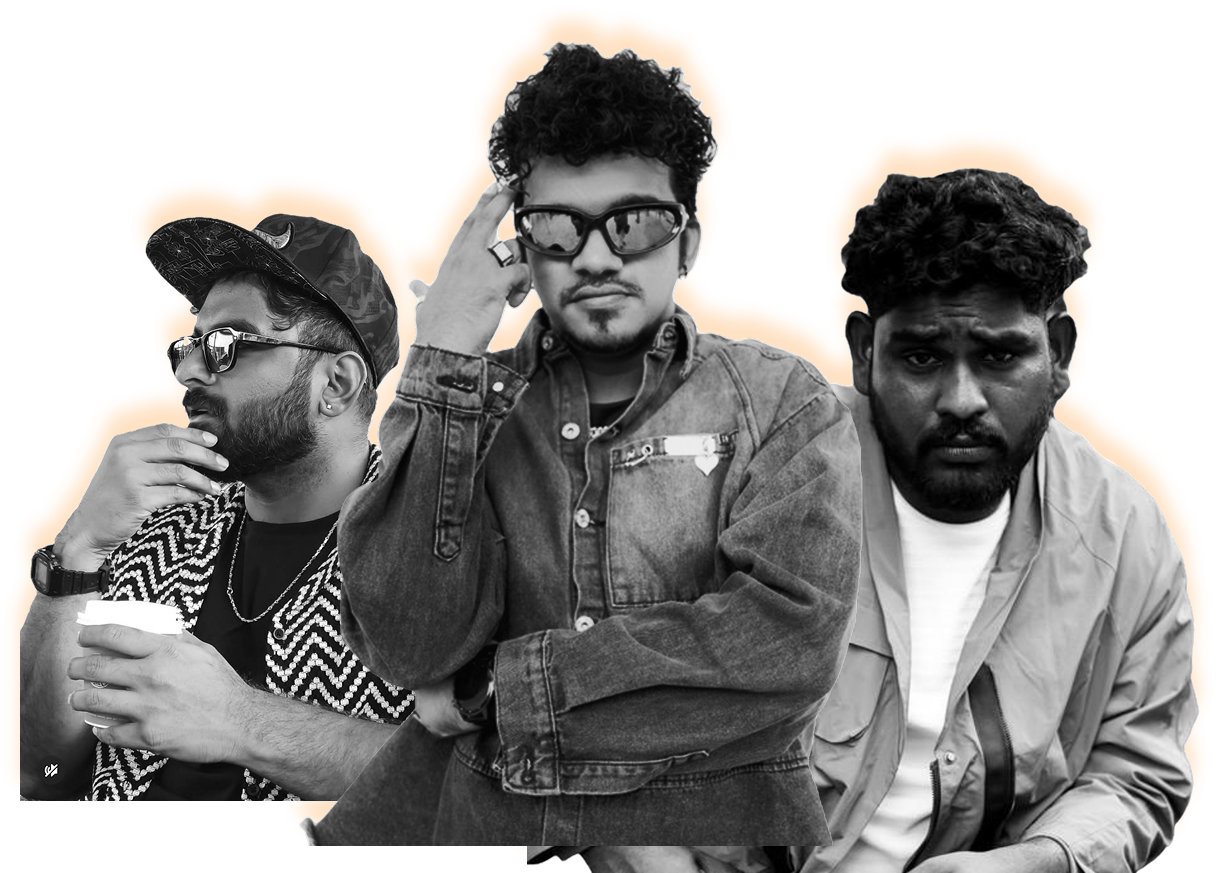
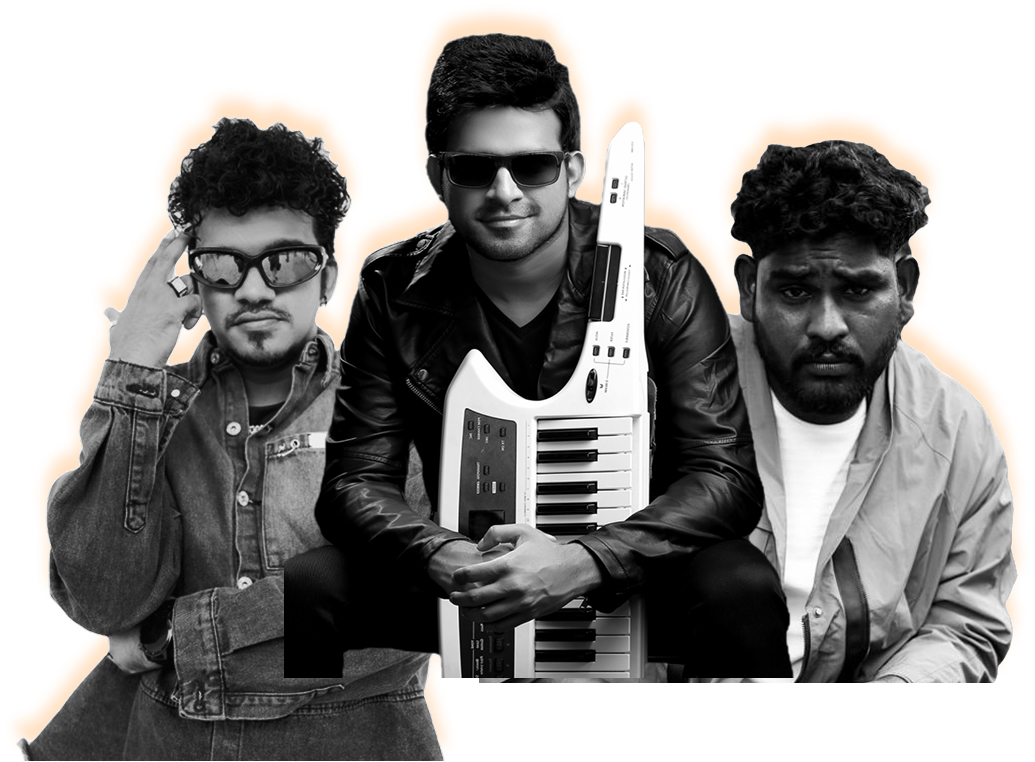
added entertainment and changed pic

diff --git a/app/about/page.tsx b/app/about/page.tsx
@@ -63,7 +63,7 @@ export default function About() {
               ABOUT SSET
             </h2>
             <p className="text-white/90 text-base sm:text-lg md:text-xl leading-relaxed md:leading-loose text-justify" style={{ fontFamily: '"Quanta Grotesk Pro", sans-serif' }}>
-              The SCMS School of Engineering and Technology (SSET) is envisioned as a premier institution providing exceptional technology-related education. SSET focuses on the holistic development of students, emphasizing ethical values and preparing them to meet the evolving diverse needs of the industry and the challenges posed by society. The institution fosters innovation, critical thinking, and interdisciplinary learning to nurture competent professionals and responsible global citizens.
+              SCMS School of Engineering and Technology (SSET), Ernakulam, is a premier institution committed to academic excellence, innovation, and holistic development. With state-of-the-art infrastructure, industry-focused programs, and experienced faculty, SSET nurtures skilled engineers ready for global challenges. Driven by quality education, research, and strong industry collaboration, SSET empowers students to lead, innovate, and excel.
             </p>
           </section>
 

diff --git a/components/ProshowSection.tsx b/components/ProshowSection.tsx
@@ -9,7 +9,7 @@ gsap.registerPlugin(ScrollTrigger);
 
 const PROSHOW_IMAGES = Object.freeze({
   ellipse: "/proShow/proshow cta.svg",
-  pic: "/proShow/pic.png",
+  pic: "/images/pic-s.svg",
   proShow: "/proShow/PRO%20SHOW.png",
   red: "/proShow/ProShowLogo.png",
   texture: "/images/asset_texture%201.svg",
